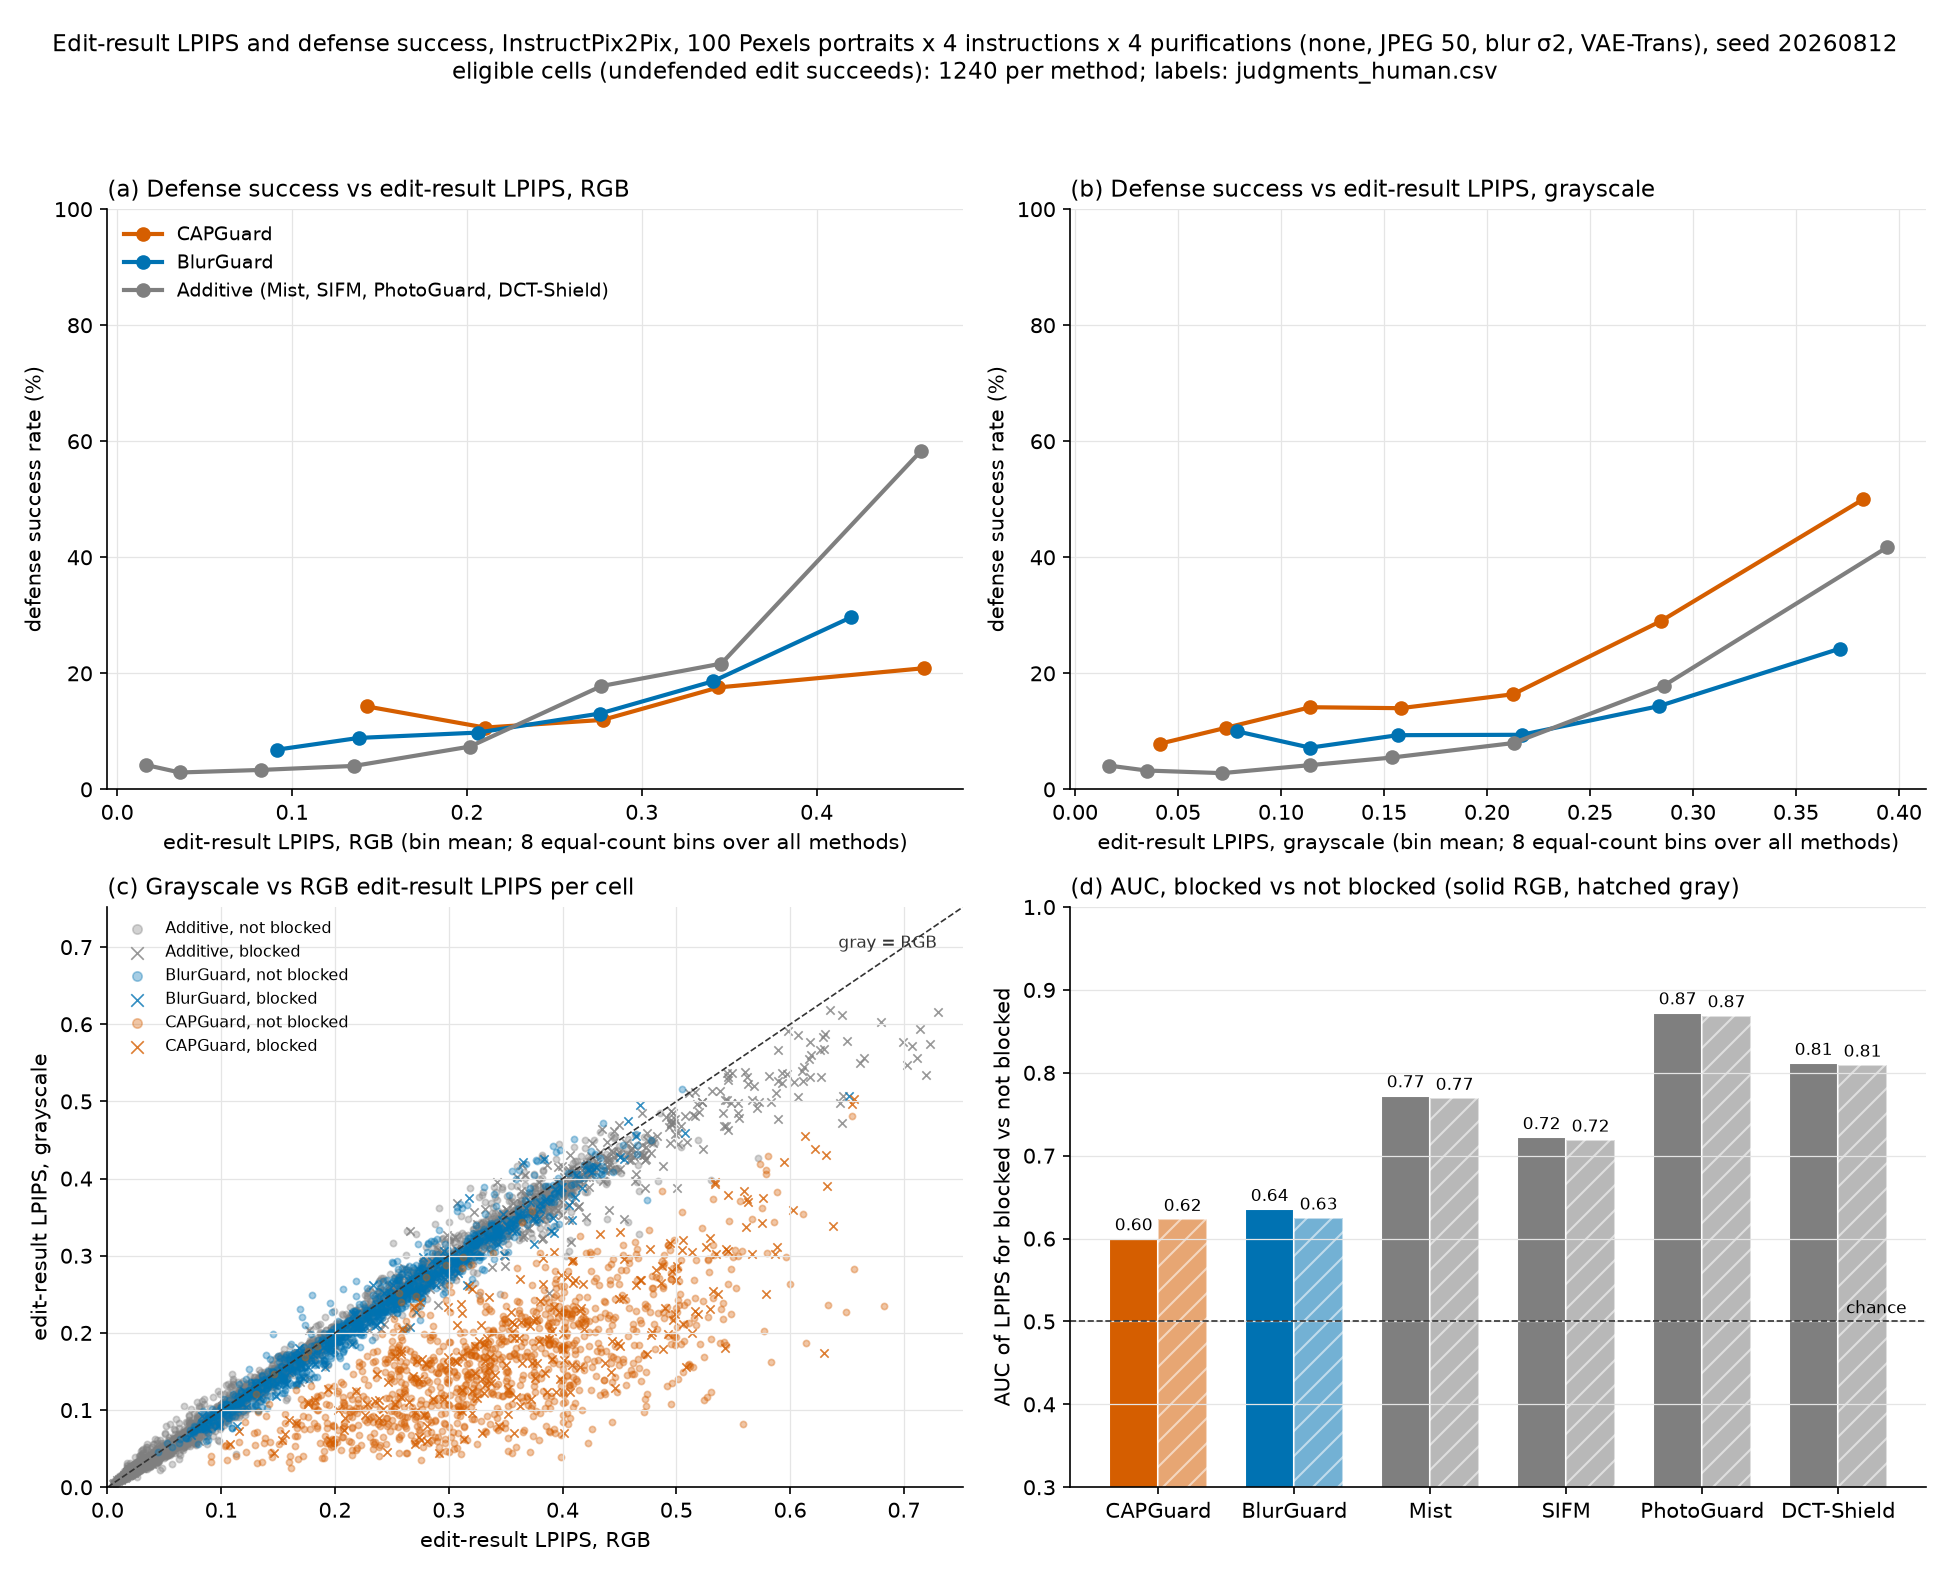
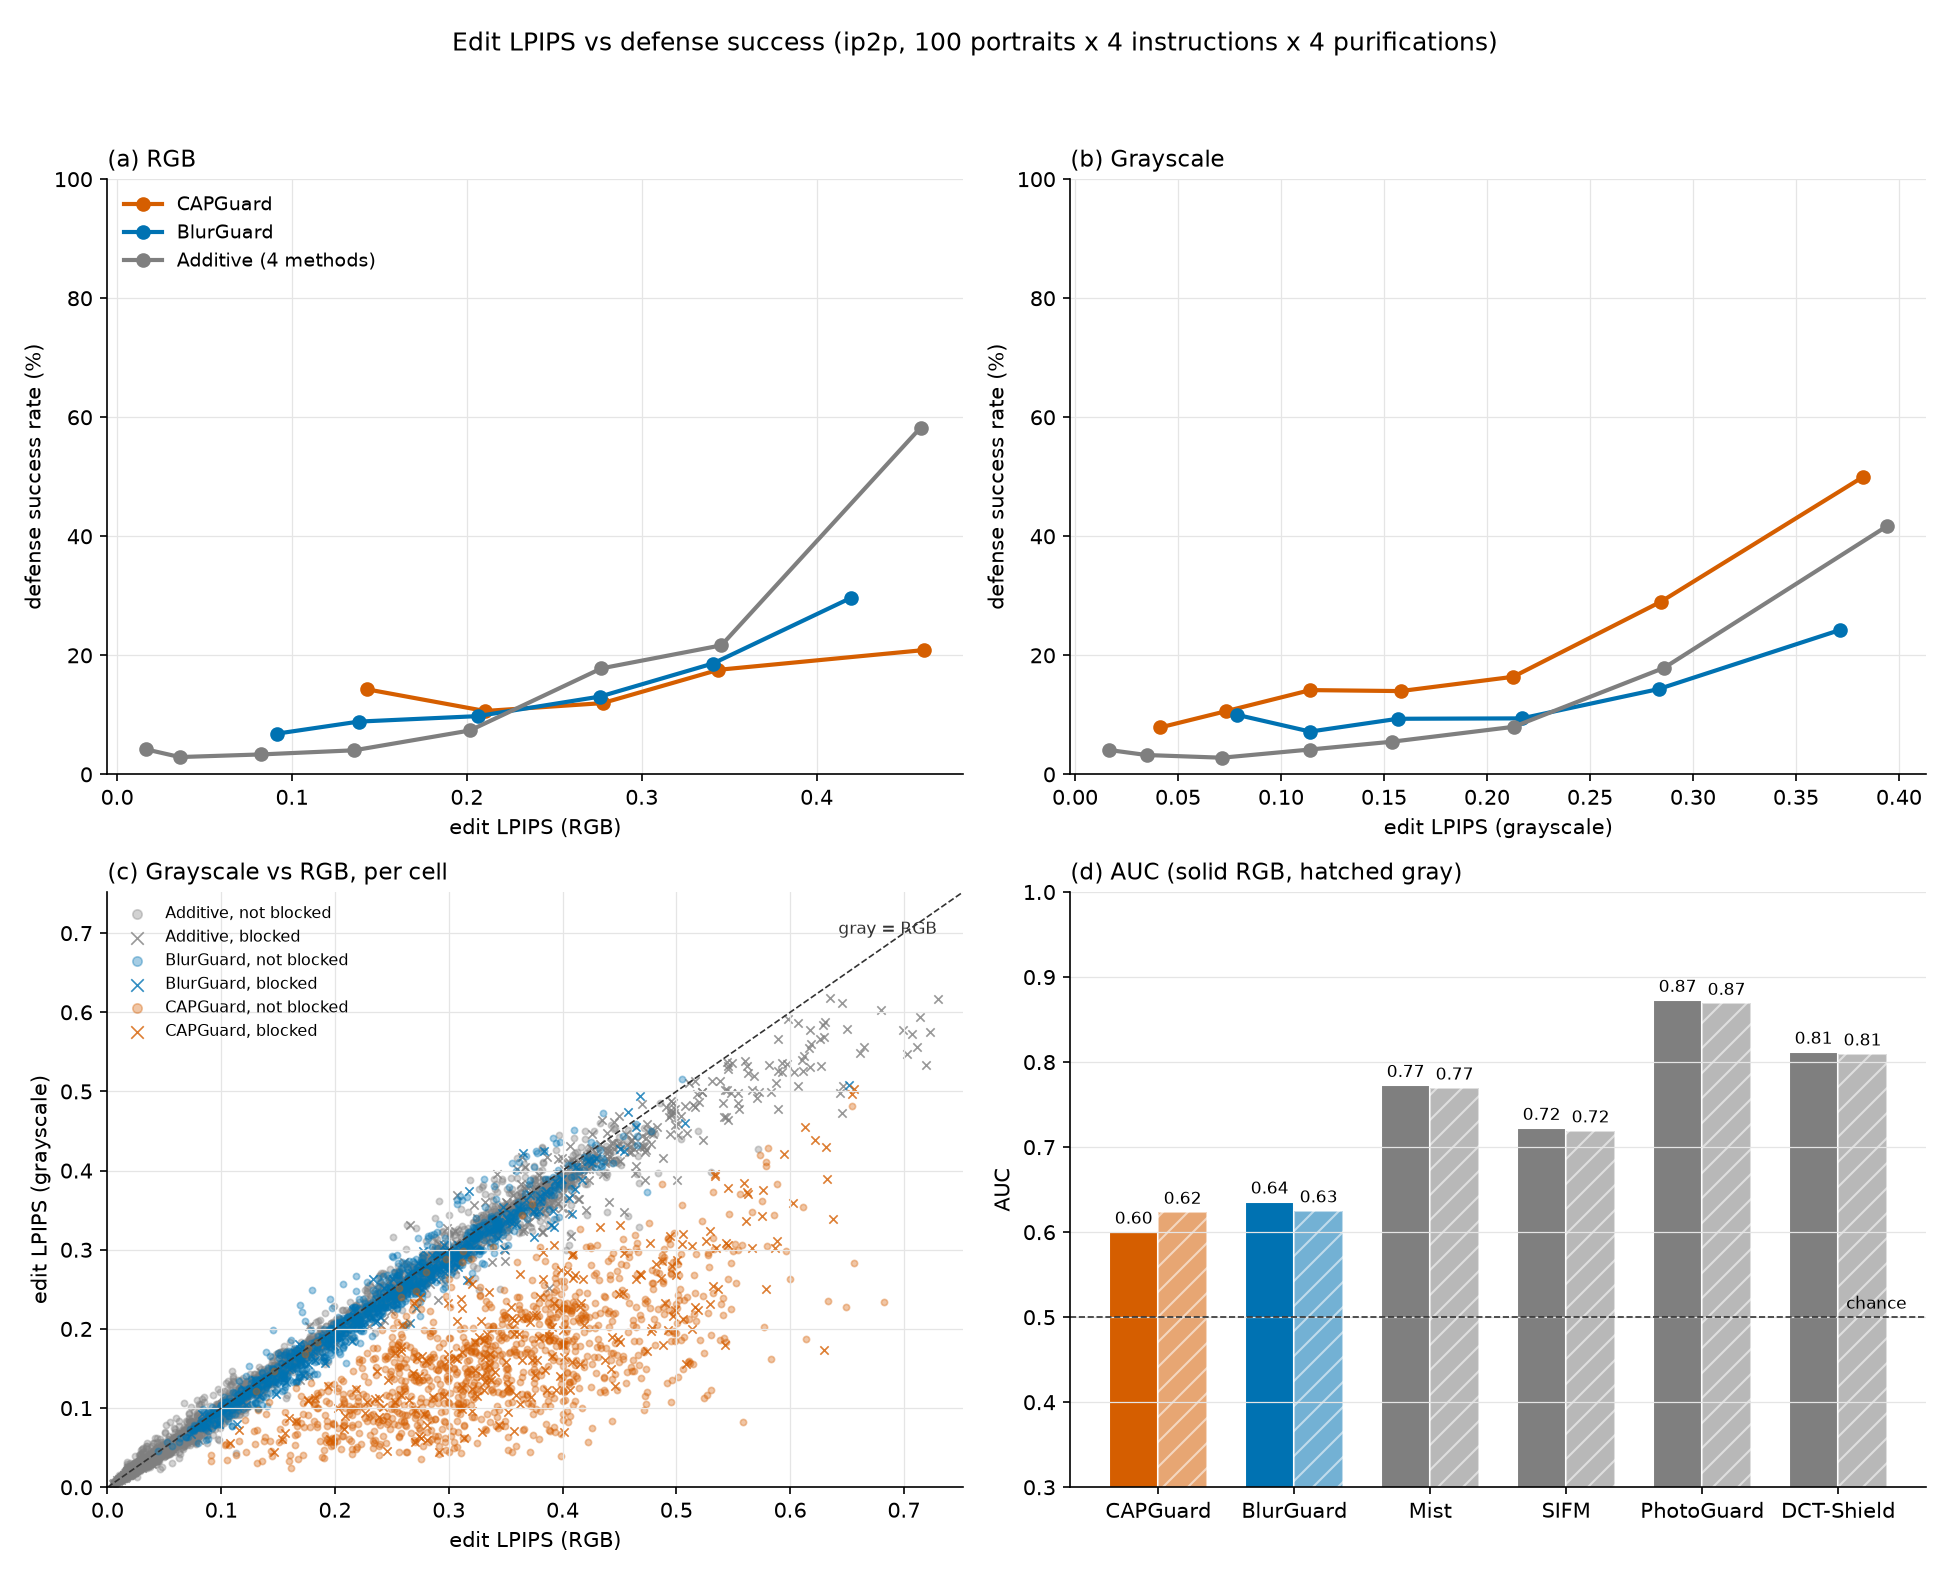
Shorten the labels of the LPIPS and ISR figures
Claude-Session: https://claude.ai/code/session_01Pyoof95D2tCDHe4yhfsdaM

diff --git a/docs/isr_pilot/generate_isr_lpips_correlation_figure.py b/docs/isr_pilot/generate_isr_lpips_correlation_figure.py
@@ -28,7 +28,7 @@ PURS = ["none", "jpeg50", "blur2", "vae_trans"]
 # Okabe-Ito order (colorblind-safe): CAPGuard, BlurGuard, additive pool
 COLOR = {"CAPGuard": "#D55E00", "BlurGuard": "#0072B2", "additive": "#7f7f7f"}
 GROUPS = [("CAPGuard", ["CAPGuard"]), ("BlurGuard", ["BlurGuard"]), ("additive", ADDITIVE)]
-LABEL = {"CAPGuard": "CAPGuard", "BlurGuard": "BlurGuard", "additive": "Additive (Mist, SIFM, PhotoGuard, DCT-Shield)"}
+LABEL = {"CAPGuard": "CAPGuard", "BlurGuard": "BlurGuard", "additive": "Additive (4 methods)"}
 
 ok = lambda r: r["accessory"].strip() == "1" and r["mismatch"].strip() == "0" and r["degraded"].strip() == "0"
 labels, und = {}, {}
@@ -94,9 +94,9 @@ for ax, idx, name, pooled in [(axes[0, 0], 2, "RGB", all_rgb), (axes[0, 1], 3, "
             if len(inb) >= 15:
                 xs.append(np.mean([c[idx] for c in inb])); ys.append(100 * np.mean([c[4] for c in inb])); ns.append(len(inb))
         ax.plot(xs, ys, "-o", color=COLOR[g], lw=2, ms=6, label=LABEL[g])
-    ax.set_xlabel(f"edit-result LPIPS, {name} (bin mean; 8 equal-count bins over all methods)")
+    ax.set_xlabel(f"edit LPIPS ({name})")
     ax.set_ylabel("defense success rate (%)")
-    ax.set_title(f"({'a' if idx == 2 else 'b'}) Defense success vs edit-result LPIPS, {name}", loc="left", fontsize=11)
+    ax.set_title(f"({'a' if idx == 2 else 'b'}) {name.capitalize() if name != 'RGB' else name}", loc="left", fontsize=11)
     ax.set_ylim(0, 100)
     ax.grid(color="#e5e5e5", lw=0.6)
     ax.spines[["top", "right"]].set_visible(False)
@@ -114,8 +114,8 @@ lim = max(all_rgb.max(), all_gray.max()) * 1.03
 ax.plot([0, lim], [0, lim], color="#333333", lw=0.8, ls="--")
 ax.text(lim * 0.97, lim * 0.93, "gray = RGB", ha="right", fontsize=8, color="#333333")
 ax.set_xlim(0, lim); ax.set_ylim(0, lim)
-ax.set_xlabel("edit-result LPIPS, RGB"); ax.set_ylabel("edit-result LPIPS, grayscale")
-ax.set_title("(c) Grayscale vs RGB edit-result LPIPS per cell", loc="left", fontsize=11)
+ax.set_xlabel("edit LPIPS (RGB)"); ax.set_ylabel("edit LPIPS (grayscale)")
+ax.set_title("(c) Grayscale vs RGB, per cell", loc="left", fontsize=11)
 ax.legend(frameon=False, fontsize=7.5, loc="upper left", ncol=1, markerscale=1.5)
 ax.grid(color="#e5e5e5", lw=0.6); ax.spines[["top", "right"]].set_visible(False)
 
@@ -133,15 +133,12 @@ for k, (idx, name, hatch) in enumerate([(2, "RGB", None), (3, "grayscale", "//")
 ax.axhline(0.5, color="#333333", lw=0.8, ls="--")
 ax.text(len(METHODS) - 0.5, 0.51, "chance", ha="right", fontsize=8)
 ax.set_xticks(x); ax.set_xticklabels(METHODS)
-ax.set_ylim(0.3, 1.0); ax.set_ylabel("AUC of LPIPS for blocked vs not blocked")
-ax.set_title("(d) AUC, blocked vs not blocked (solid RGB, hatched gray)", loc="left", fontsize=11)
+ax.set_ylim(0.3, 1.0); ax.set_ylabel("AUC")
+ax.set_title("(d) AUC (solid RGB, hatched gray)", loc="left", fontsize=11)
 ax.grid(axis="y", color="#e5e5e5", lw=0.6); ax.spines[["top", "right"]].set_visible(False)
 
 n_by = collections.Counter(c[0] for c in cells)
-fig.suptitle("Edit-result LPIPS and defense success, InstructPix2Pix, 100 Pexels portraits x 4 instructions x 4 purifications "
-             "(none, JPEG 50, blur σ2, VAE-Trans), seed 20260812\n"
-             f"eligible cells (undefended edit succeeds): {n_by['CAPGuard']} per method; labels: {JUDGMENTS.split('/')[-1]}",
-             fontsize=11)
+fig.suptitle("Edit LPIPS vs defense success (ip2p, 100 portraits x 4 instructions x 4 purifications)", fontsize=12)
 plt.tight_layout(rect=[0, 0, 1, 0.95])
 plt.savefig(OUT + ".png", dpi=150, facecolor="white")
 print("saved", OUT + ".png")

diff --git a/docs/isr_pilot/generate_isr_lpips_qualitative_figure.py b/docs/isr_pilot/generate_isr_lpips_qualitative_figure.py
@@ -67,7 +67,7 @@ def load(rel, gray=False):
     return np.asarray(im)
 
 
-cols = ["Original", "Undefended edit", "CAPGuard edit", "Undefended edit\n(grayscale)", "CAPGuard edit\n(grayscale)"]
+cols = ["Original", "Undefended", "CAPGuard", "Undefended (gray)", "CAPGuard (gray)"]
 n = len(succ) + len(blk)
 # grid rows: header (a), succ rows, header (b), blk rows
 ratios = [0.18] + [1] * len(succ) + [0.18] + [1] * len(blk)
@@ -75,8 +75,7 @@ fig = plt.figure(figsize=(12.5, 2.75 * n + 1.2), facecolor="white")
 gs = fig.add_gridspec(len(ratios), 5, height_ratios=ratios, hspace=0.35, wspace=0.05)
 row_of = [1 + i for i in range(len(succ))] + [2 + len(succ) + i for i in range(len(blk))]
 axes = np.array([[fig.add_subplot(gs[row_of[i], c]) for c in range(5)] for i in range(n)])
-for hdr, text in [(0, "(a) High edit-result LPIPS, edit succeeded: the gap is mostly color (gray LPIPS < half of RGB)"),
-                  (1 + len(succ), "(b) Edit blocked (accessory absent, image not degraded): most of the gap remains in grayscale (gray LPIPS >= 0.55 of RGB)")]:
+for hdr, text in [(0, "(a) Edit succeeded, high LPIPS"), (1 + len(succ), "(b) Edit blocked")]:
     ax = fig.add_subplot(gs[hdr, :])
     ax.axis("off")
     ax.text(0, 0.0, text, fontsize=11, weight="bold", ha="left", va="bottom", transform=ax.transAxes)
@@ -91,11 +90,10 @@ for i, (group, r) in enumerate([("succ", r) for r in succ] + [("blk", r) for r i
             s.set_visible(False)
         if i in (0, len(succ)):
             ax.set_title(cols[c], fontsize=10)
-    axes[i, 2].set_xlabel(f"LPIPS (RGB) {r['rgb']:.3f}", fontsize=9)
-    axes[i, 4].set_xlabel(f"LPIPS (gray) {r['gray']:.3f}", fontsize=9)
+    axes[i, 2].set_xlabel(f"LPIPS {r['rgb']:.2f}", fontsize=9)
+    axes[i, 4].set_xlabel(f"LPIPS {r['gray']:.2f}", fontsize=9)
     instr = r["p"]["prompt_text"].replace("Let the person wear ", "")
-    axes[i, 0].set_ylabel(f"{instr}\n{PUR[r['pur']]}\n{'edit succeeded' if group == 'succ' else 'edit blocked'}"
-                          + ("\n(human-audited)" if r["audited"] else ""), fontsize=9)
+    axes[i, 0].set_ylabel(f"{instr}\n{PUR[r['pur']]}", fontsize=9)
 plt.savefig(OUT, dpi=150, facecolor="white", bbox_inches="tight")
 with open(os.path.splitext(OUT)[0] + ".csv", "w", newline="") as f:
     w = csv.writer(f)
